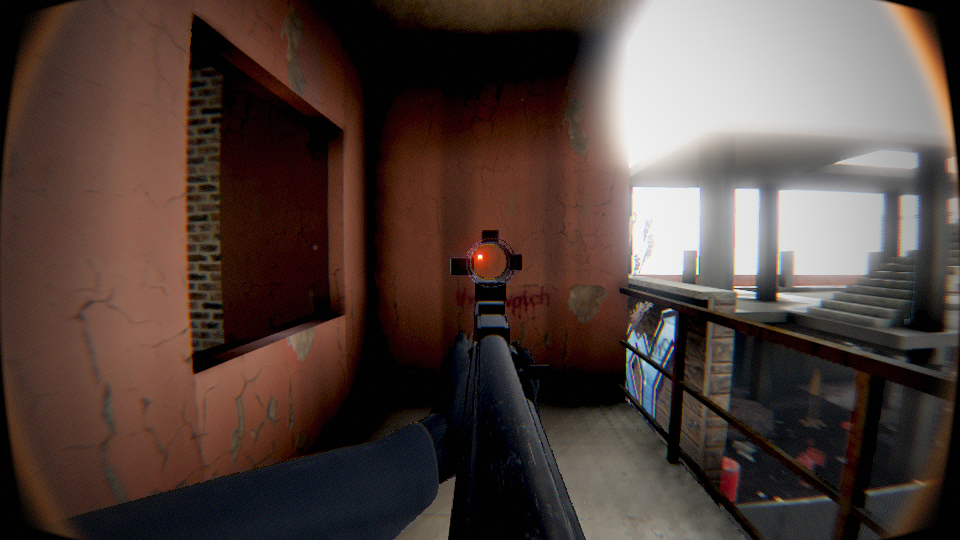
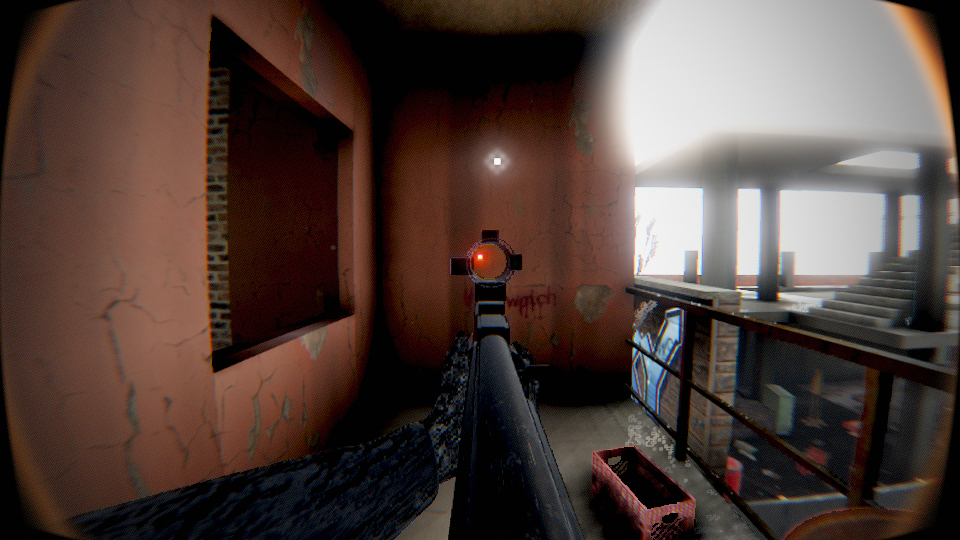
Suelo: SSR documentado, mangas sin artefactos, capturas actualizadas
Claude-Session: https://claude.ai/code/session_01UkLvSECEZZUFT2ZWuw8bTM

diff --git a/game/assets/main-B-taC1ZO.js b/game/assets/main-B-taC1ZO.js
@@ -106,7 +106,8 @@ import{V as k,o as U,x as wn,y as ki,g as ee,p as eo,c as Nr,O as zi,i as to,a a
                       + texture2D(tScene, uvB + vec2(o4.x, -o4.y)).rgb + texture2D(tScene, uvB + vec2(-o4.x, o4.y)).rgb);
       float lc = luma(col), lb = luma(cb);
       float dark = 1.0 - smoothstep(0.0, 0.22, lc * exposure);
-      float k = compression * clamp(0.10 + 0.45 * dark + mv, 0.0, 1.0);
+      // el arma y los brazos (< 1 m) ocupan muchos bloques y delatan el artefacto: casi sin compresión ahí
+      float k = compression * clamp(0.10 + 0.45 * dark + mv, 0.0, 1.0) * mix(0.12, 1.0, smoothstep(0.6, 1.2, zc));
       vec3 cc = cb * clamp(lc / max(lb, 1e-4), 0.0, 3.0);          // croma del bloque, luma propia
       col = mix(col, cc, min(1.0, k * 1.3));
       col = mix(col, cb, k * 0.40 * smoothstep(0.25, 1.0, mv + dark * 0.5));
@@ -207,9 +208,10 @@ import{V as k,o as U,x as wn,y as ki,g as ee,p as eo,c as Nr,O as zi,i as to,a a
       vec2 bid = floor(vUv * res / 8.0);
       float dk = 1.0 - smoothstep(0.0, 0.24, lo);
       float bn = hash21(bid + floor(time * 15.0) * 7.13) - 0.5;
-      o += bn * 0.014 * compression * dk * (0.6 + min(mv, 1.0));
+      float nearVM = mix(0.15, 1.0, smoothstep(0.6, 1.2, zc));
+      o += bn * 0.014 * compression * dk * (0.6 + min(mv, 1.0)) * nearVM;
       float L = mix(56.0, 255.0, smoothstep(0.0, 0.30, lo));
-      o = mix(o, floor(o * L + 0.5) / L, clamp(compression * 0.8 * dk, 0.0, 1.0));
+      o = mix(o, floor(o * L + 0.5) / L, clamp(compression * 0.8 * dk * nearVM, 0.0, 1.0));
     }
     #endif
 
@@ -536,7 +538,7 @@ import{V as k,o as U,x as wn,y as ki,g as ee,p as eo,c as Nr,O as zi,i as to,a a
 `+Il).replace("#include <normal_fragment_maps>",`#include <normal_fragment_maps>
         // pliegues de tela / costuras (solo materiales con trama): bump procedural por derivadas de pantalla
         if (wearAmt.w > 0.0) {
-          vec3 fp = vObjPos * wearScale * 0.12;
+          vec3 fp = vObjPos * wearScale * 0.035;
           float hh = wfbm(vec3(fp.x * 0.6, fp.y * 0.6, fp.z * 2.4));
           hh += smoothstep(0.94, 1.0, abs(sin(fp.z * 1.1))) * 0.25;                // costuras transversales
           vec3 dpx = dFdx(-vViewPosition), dpy = dFdy(-vViewPosition);
@@ -544,7 +546,7 @@ import{V as k,o as U,x as wn,y as ki,g as ee,p as eo,c as Nr,O as zi,i as to,a a
           vec3 r1 = cross(dpy, normal), r2 = cross(normal, dpx);
           float det = dot(dpx, r1);
           vec3 grad = sign(det) * (dhx * r1 + dhy * r2);
-          normal = normalize(abs(det) * normal - grad * 0.35 * wearAmt.w);
+          normal = normalize(abs(det) * normal - grad * 0.22 * wearAmt.w);
         }`).replace("#include <roughnessmap_fragment>",`#include <roughnessmap_fragment>
         {
           vec3 wp = vObjPos * wearScale;
@@ -558,8 +560,8 @@ import{V as k,o as U,x as wn,y as ki,g as ee,p as eo,c as Nr,O as zi,i as to,a a
           diffuseColor.rgb = mix(diffuseColor.rgb, diffuseColor.rgb * 2.6 + 0.045, clamp(scr * wearAmt.x * 0.7 + worn, 0.0, 1.0));
           // tejido: trama cruzada + pelusa clara en ángulos rasantes
           if (wearAmt.w > 0.0) {
-            float wv = wfbm(wp * 0.8) - 0.5;
-            diffuseColor.rgb *= 1.0 + wv * 0.30 * wearAmt.w + (big - 0.5) * 0.5 * wearAmt.w;
+            float wv = wfbm(wp * 0.035) - 0.5;
+            diffuseColor.rgb *= 1.0 + wv * 0.22 * wearAmt.w;
             float fres = pow(1.0 - saturate(dot(normalize(vViewPosition), normalize(vNormal))), 3.0);
             diffuseColor.rgb += fres * 0.06 * wearAmt.w;
           }

diff --git a/src/weapon/gunfx.js b/src/weapon/gunfx.js
@@ -29,7 +29,7 @@ function addWear(mat, { scale = 60, scratches = 0, grease = 0, edge = 0, weave =
       .replace("#include <normal_fragment_maps>", /* glsl */ `#include <normal_fragment_maps>
         // pliegues de tela / costuras (solo materiales con trama): bump procedural por derivadas de pantalla
         if (wearAmt.w > 0.0) {
-          vec3 fp = vObjPos * wearScale * 0.12;
+          vec3 fp = vObjPos * wearScale * 0.035;
           float hh = wfbm(vec3(fp.x * 0.6, fp.y * 0.6, fp.z * 2.4));
           hh += smoothstep(0.94, 1.0, abs(sin(fp.z * 1.1))) * 0.25;                // costuras transversales
           vec3 dpx = dFdx(-vViewPosition), dpy = dFdy(-vViewPosition);
@@ -37,7 +37,7 @@ function addWear(mat, { scale = 60, scratches = 0, grease = 0, edge = 0, weave =
           vec3 r1 = cross(dpy, normal), r2 = cross(normal, dpx);
           float det = dot(dpx, r1);
           vec3 grad = sign(det) * (dhx * r1 + dhy * r2);
-          normal = normalize(abs(det) * normal - grad * 0.35 * wearAmt.w);
+          normal = normalize(abs(det) * normal - grad * 0.22 * wearAmt.w);
         }`)
       .replace("#include <roughnessmap_fragment>", /* glsl */ `#include <roughnessmap_fragment>
         {
@@ -52,8 +52,8 @@ function addWear(mat, { scale = 60, scratches = 0, grease = 0, edge = 0, weave =
           diffuseColor.rgb = mix(diffuseColor.rgb, diffuseColor.rgb * 2.6 + 0.045, clamp(scr * wearAmt.x * 0.7 + worn, 0.0, 1.0));
           // tejido: trama cruzada + pelusa clara en ángulos rasantes
           if (wearAmt.w > 0.0) {
-            float wv = wfbm(wp * 0.8) - 0.5;
-            diffuseColor.rgb *= 1.0 + wv * 0.30 * wearAmt.w + (big - 0.5) * 0.5 * wearAmt.w;
+            float wv = wfbm(wp * 0.035) - 0.5;
+            diffuseColor.rgb *= 1.0 + wv * 0.22 * wearAmt.w;
             float fres = pow(1.0 - saturate(dot(normalize(vViewPosition), normalize(vNormal))), 3.0);
             diffuseColor.rgb += fres * 0.06 * wearAmt.w;
           }

diff --git a/src/render/lens-shader.js b/src/render/lens-shader.js
@@ -121,7 +121,8 @@ export const finalFrag = (common) => /* glsl */ `
                       + texture2D(tScene, uvB + vec2(o4.x, -o4.y)).rgb + texture2D(tScene, uvB + vec2(-o4.x, o4.y)).rgb);
       float lc = luma(col), lb = luma(cb);
       float dark = 1.0 - smoothstep(0.0, 0.22, lc * exposure);
-      float k = compression * clamp(0.10 + 0.45 * dark + mv, 0.0, 1.0);
+      // el arma y los brazos (< 1 m) ocupan muchos bloques y delatan el artefacto: casi sin compresión ahí
+      float k = compression * clamp(0.10 + 0.45 * dark + mv, 0.0, 1.0) * mix(0.12, 1.0, smoothstep(0.6, 1.2, zc));
       vec3 cc = cb * clamp(lc / max(lb, 1e-4), 0.0, 3.0);          // croma del bloque, luma propia
       col = mix(col, cc, min(1.0, k * 1.3));
       col = mix(col, cb, k * 0.40 * smoothstep(0.25, 1.0, mv + dark * 0.5));
@@ -222,9 +223,10 @@ export const finalFrag = (common) => /* glsl */ `
       vec2 bid = floor(vUv * res / 8.0);
       float dk = 1.0 - smoothstep(0.0, 0.24, lo);
       float bn = hash21(bid + floor(time * 15.0) * 7.13) - 0.5;
-      o += bn * 0.014 * compression * dk * (0.6 + min(mv, 1.0));
+      float nearVM = mix(0.15, 1.0, smoothstep(0.6, 1.2, zc));
+      o += bn * 0.014 * compression * dk * (0.6 + min(mv, 1.0)) * nearVM;
       float L = mix(56.0, 255.0, smoothstep(0.0, 0.30, lo));
-      o = mix(o, floor(o * L + 0.5) / L, clamp(compression * 0.8 * dk, 0.0, 1.0));
+      o = mix(o, floor(o * L + 0.5) / L, clamp(compression * 0.8 * dk * nearVM, 0.0, 1.0));
     }
     #endif
 

diff --git a/game/index.html b/game/index.html
@@ -4,7 +4,7 @@
   <meta charset="utf-8" />
   <meta name="viewport" content="width=device-width, initial-scale=1" />
   <title>Bodycam Tactical — Urbex</title>
-  <script type="module" crossorigin src="./assets/main-CEOq115h.js"></script>
+  <script type="module" crossorigin src="./assets/main-B-taC1ZO.js"></script>
   <link rel="stylesheet" crossorigin href="./assets/main-BJv2jxuR.css">
 </head>
 <body>

diff --git a/CHANGELOG.md b/CHANGELOG.md
@@ -66,6 +66,16 @@ godrays, wetness, grime, emergency.
 - Pliegues y costuras procedurales (bump) en mangas y guantes.
 - Calidad: `clutter` 0.5/1/1.3 y `forest` 0.4/1/1.6 (baja/media/alta).
 
+### Suelo fotorrealista
+- Reflejos en espacio de pantalla (`src/render/ssr.js`) solo en superficies mojadas: los materiales de suelo
+  escriben su humedad como alfa negativo en el render HDR (sin G-buffer extra); pase a ½ resolución con trazado
+  contra la profundidad, refinamiento binario, ondas animadas en el agua y Fresnel. Los charcos reflejan troncos,
+  columnas y luces en vez de ser manchas blancas de cielo. Calidad media 24 pasos, alta 40, baja desactivado.
+- Charcos del bosque como espejo (rugosidad 0.05); suelo del bosque quemado aclarado a ceniza gris-parda;
+  menos micro-charcos POM y bordes húmedos más anchos.
+- Slider LOOK `reflections`; `sensorGain` 1.15 para que el cielo nublado se queme a blanco como en las referencias.
+- Arma y brazos excluidos de los artefactos de compresión; relieve de tela de mangas y guantes a menor frecuencia.
+
 ### Pendiente
 - NPC/operadores y brazos/arma de alta calidad: los candidatos CC-BY están en Sketchfab (requiere token válido).
 - Sombras de contacto en brazos.
